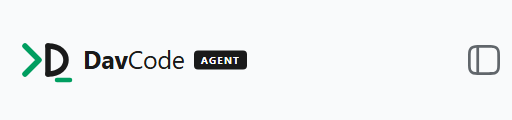
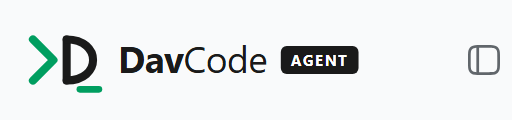
Draw the row's artwork at the height the row really has
The shipped brand box declares height 24px and clips, which made the
wordmark read too small. The row is 60px with 8px of padding, so the pack
now opens that box ? found structurally, the outermost ancestor of the
artwork inside the row, with every clipping ancestor up to it set to
overflow: visible ? and sizes the canvas to the room beside the panel
toggle, never below 24 and never past the row's 44px content height. Both
axes move together, and no coordinate inside the drawing changes.

Measured in the running UI: 181.5x44 at a 280px sidebar (name at 18.3px,
against the shipped row's own 18px name), 164x39.75 at 164px of room.

Changed region(s): [[0.0312, 0.275, 0.7188, 0.775]]

diff --git a/packages/dsh-brand-davcode/lib/client.js b/packages/dsh-brand-davcode/lib/client.js
@@ -217,15 +217,65 @@ window.__ModuleLoader__.load({
 		}
 
 		/**
-		 * The artwork as the sidebar row shows it. The row's brand box is 24px tall and clips
-		 * symmetrically, and the drawn canvas is 120 units tall with the art itself between
-		 * 26.5 and 104.5 — so 30 units is the scale at which the whole drawing is inside that
-		 * box, with the drawn margins left and right as the author spaced them. It is a scale,
-		 * never a move: no coordinate inside the artwork changes.
+		 * The artwork as the sidebar row shows it.
+		 *
+		 * The row is 60px tall with 8px of padding, so 44 is the tallest the drawing can be
+		 * without intruding on that padding; the shipped row gives the artwork a 24px box that
+		 * clips, which is what made this read too small. `fitRow` therefore opens that box and
+		 * sizes the canvas to the room the row actually has — a scale, never a move: no
+		 * coordinate inside the artwork changes, and the drawn canvas and its margins are the
+		 * author's own. This value is what React renders, and what stands if the row cannot be
+		 * measured at all: small enough to be whole inside even the clipped box.
 		 */
 		const ROW_HEIGHT = 30;
+		/** The tallest the artwork may be drawn in the row, in the row's own content height. */
+		const ROW_MAX_HEIGHT = 44;
+		/** The artwork's own aspect, so the fit stays uniform. */
+		const ROW_RATIO = ART.canvas.width / ART.canvas.height;
+		/** Below this the wordmark stops being readable; the fit never goes smaller. */
+		const ROW_MIN_HEIGHT = 24;
 		function RowLockup() {
 			return jsx(Lockup, { size: ROW_HEIGHT });
+		}
+
+		/**
+		 * Give the row's artwork the room the row has.
+		 *
+		 * The box that holds the seats declares `height: 24px` and clips at it, which is what
+		 * made the wordmark read small. That box is found structurally — the outermost ancestor
+		 * of the artwork that is still inside the row, with every clipping ancestor up to it
+		 * opened (`overflow: visible`; the row's own padding box is what then bounds the
+		 * drawing) — never by class name, so a renamed module class changes nothing here.
+		 *
+		 * The height is then the smaller of the row's content height and what the width beside
+		 * the panel toggle allows, so a narrow sidebar scales the artwork down instead of
+		 * pushing it over the toggle. Both axes move together: the aspect is the drawing's.
+		 *
+		 * @param lockup - the artwork element.
+		 * @param row - the row that contains it.
+		 * @param opened - collects every element whose overflow this pass changed, for restore.
+		 * @returns the box the fit measured against, or null when the row has no such box.
+		 */
+		function fitRow(lockup, row, opened) {
+			const seen = [];
+			let box = null;
+			for (let node = lockup.parentElement; node !== null && node !== row; node = node.parentElement) {
+				if (getComputedStyle(node).overflow !== "visible") {
+					node.style.overflow = "visible";
+					opened.add(node);
+				}
+				seen.push(node);
+				box = node;
+			}
+			if (box === null) return null;
+			const available = box.clientWidth;
+			const height = Math.max(
+				ROW_MIN_HEIGHT,
+				Math.min(ROW_MAX_HEIGHT, available > 0 ? available / ROW_RATIO : ROW_MAX_HEIGHT),
+			);
+			lockup.style.height = height + "px";
+			lockup.style.width = height * ROW_RATIO + "px";
+			return { box, seen, height };
 		}
 
 		/**
@@ -292,11 +342,16 @@ window.__ModuleLoader__.load({
 		 * exists for the collapsed rail, where the artwork is not shown, so it is hidden only
 		 * while the artwork is actually laid out — measured, not assumed, so either way the app
 		 * hides the name (unmounted or styled) leaves the rail with its icon.
+		 *
+		 * The same pass sizes the artwork to the row (`fitRow`), and the window's own resize is
+		 * followed because a dragged sidebar changes width without touching the DOM.
 		 */
 		function watchSeats() {
+			const opened = new Set();
 			const reconcile = () => {
 				for (const row of document.querySelectorAll('[class*="_logoRow"]')) {
 					const lockup = row.querySelector('[data-dsh-brand="lockup"]');
+					if (lockup !== null) fitRow(lockup, row, opened);
 					const shown = lockup !== null && lockup.getBoundingClientRect().width > 0;
 					for (const mark of row.querySelectorAll('[class*="_brandMark"]')) {
 						const hide = shown && !mark.contains(lockup);
@@ -307,9 +362,17 @@ window.__ModuleLoader__.load({
 			reconcile();
 			const observer = new MutationObserver(reconcile);
 			observer.observe(document.body, { childList: true, subtree: true, attributes: true, attributeFilter: ["class", "style"] });
+			window.addEventListener("resize", reconcile);
 			return () => {
 				observer.disconnect();
+				window.removeEventListener("resize", reconcile);
 				for (const mark of document.querySelectorAll('[class*="_brandMark"]')) mark.style.display = "";
+				for (const node of opened) node.style.overflow = "";
+				opened.clear();
+				for (const lockup of document.querySelectorAll('[data-dsh-brand="lockup"]')) {
+					lockup.style.height = "";
+					lockup.style.width = "";
+				}
 			};
 		}
 

diff --git a/packages/dsh-brand-davcode/README.md b/packages/dsh-brand-davcode/README.md
@@ -56,15 +56,21 @@ Two things are structural rather than literal, and neither moves a coordinate:
   stored as that pair and resolved from the active colour scheme, so the brand follows the
   theme instead of the ground it was exported for. The tab icon is the one exception: a
   browser tab has no theme to inherit, so it keeps the dark pair on a `#141414` ground.
-- **The row is a scale, not a crop.** The row's brand box is 24px tall and clips
-  symmetrically; the drawn canvas is 120 units tall with the art itself between 26.5 and
-  104.5. At 30 units (**123.75 × 30**) the whole drawing falls inside that box, with the
-  drawn margins left and right exactly as the author spaced them. Verified in the running
-  UI: the visible band is canvas y 12 → 108, and the art is inside it on both sides.
+- **The row is a scale, not a crop.** The row's brand box declares `height: 24px` and clips at
+  it, which is what made the wordmark read too small: the shipped row actually has 60px with
+  8px of padding, so the artwork may be **44** tall. The pack opens that box (it is found
+  structurally — the outermost ancestor of the artwork still inside the row — and every
+  clipping ancestor up to it is set to `overflow: visible`; the row's own padding box is then
+  what bounds the drawing) and sizes the canvas to the room the row has, so a dragged-narrow
+  sidebar scales it down instead of pushing it over the panel toggle, and never below 24.
+  Both axes move together: the aspect is the drawing's. Measured in the running UI at a 280px
+  sidebar: **181.5 × 44**, the whole canvas in the clear, with the name rendering at 18.3px
+  (the shipped row's own name size is 18px); at 164px of room the fit gives 164 × 39.75.
 
-`Mark` is the mark alone (the rail and the toggle button, 24×24 as the seat asks),
-`Lockup` is the whole artwork at whatever edge the host passes — 30 in the row, 34 in the
-hero — and both scale uniformly by that one factor.
+`Mark` is the mark alone (the rail and the toggle button, 24×24 as the seat asks), `Lockup`
+is the whole artwork at whatever edge the host passes — 34 in the hero, and in the row
+whatever `fitRow` measures, from 30 on the first paint — and both scale uniformly by that
+one factor.
 
 ## How the scheme is followed
 

diff --git a/README.md b/README.md
@@ -125,9 +125,10 @@ is a test result rather than an assumption. The three browser tools need a resol
 
 - **The brand artwork is data, not a redraw.** Every coordinate, weight, anchor and colour of the
   supplied drawings is transcribed into `packages/dsh-brand-davcode/lib/client.js`, and
-  `tools/brand/test-brand.mjs` asserts all of them in both palettes. The row renders the drawn canvas at
-  30 units because that is the scale at which the whole art fits the 24px brand box the shipped CSS
-  gives it — a scale, never a crop or a re-centring. The pack README spells out the arithmetic.
+  `tools/brand/test-brand.mjs` asserts all of them in both palettes. The row opens the 24px box the
+  shipped CSS gives the brand and draws the canvas at the height the row really has (44px, or less in a
+  narrow sidebar, never below 24) — a scale, never a crop or a re-centring. The pack README spells out
+  the arithmetic.
 - **Prices are data, not code.** `packages/dsh-session-cost/prices.json` carries the published rates,
   the peak windows (in UTC), the model aliases, and the URL and date they were read from. Editing that
   file reprices every session on its next read, with no restart and no refold. A release that changes
